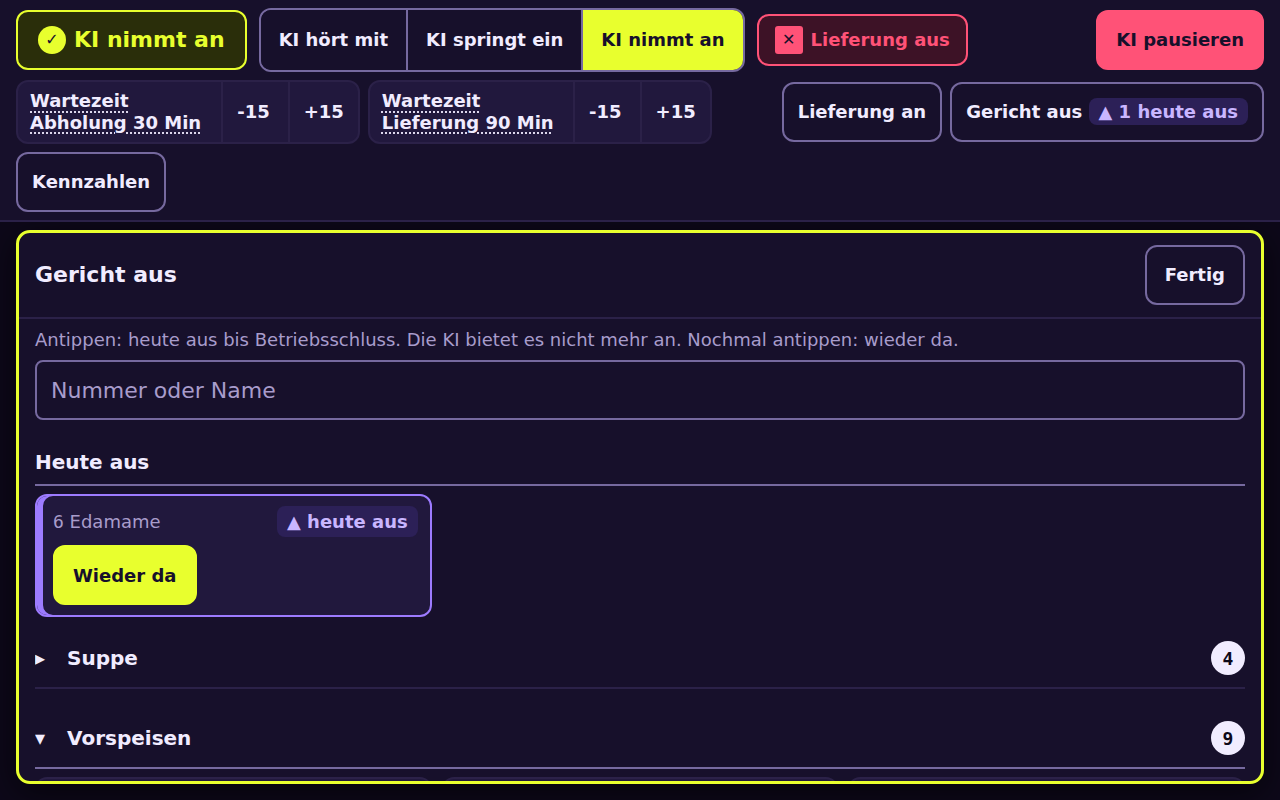
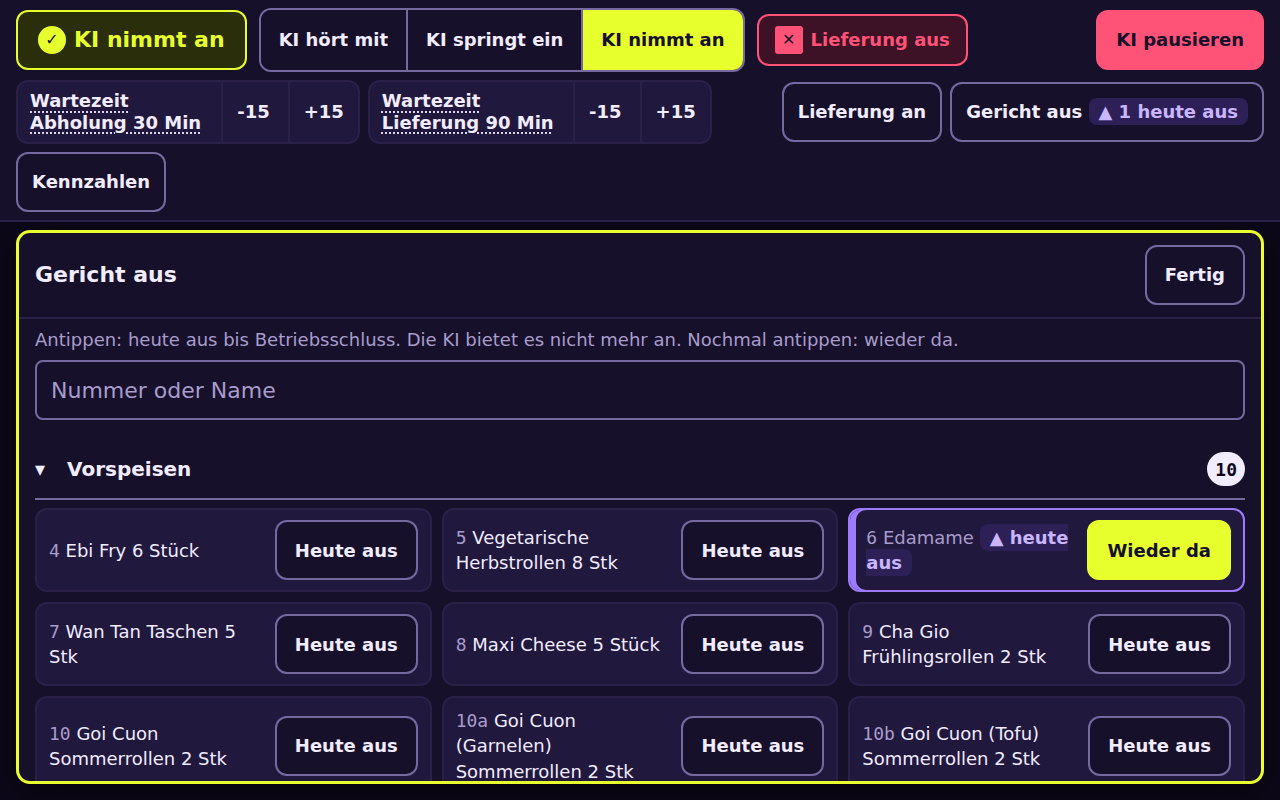
feat(gui): second review round: cancel line as an event, dish rows swap in place, dropped correction says so, refused number in coral

Changed region(s): [[0.0, 0.5625, 1.0, 0.9688]]

diff --git a/docs/06_GUI.md b/docs/06_GUI.md
@@ -74,7 +74,7 @@
 - Positionen zeigen die Kartennummer grau vor dem Namen. Die Küche arbeitet mit Nummern.
 - **Passt** → Zettel an die Kasse (in Stufe 5 ist das die Freigabe). Seit D2 druckt die Brücke einen Eingabezettel „NICHT IN KASSE“ am Haupt-Bondrucker; den Küchenbon druckt erst die Kasse, wenn jemand die Bestellung eingetippt hat (docs/02 §2a, T-4.6)
 - **Korrigieren** → Positionen ändern, Grund wählen (falsches Gericht · falsche Menge · falsche Adresse · Sonstiges). Jede Korrektur wird gezählt und ist der Rohstoff für die Genauigkeits-KPI.
-- **Bestellung stornieren** (Maxi relabelled it from „Storniert“, 03.11.2026: a button names the action, the state appears after it) → the guest cancelled by phone or never came. It asks first (§1 rule 6), the card leaves and a green line at the top of the column says „Bestellung A17: Storniert“ (the pickup code, else the name) until the next refresh, and no false „In Kasse eingegeben“ reaches the register (L18). Built 02.11.2026, below.
+- **Bestellung stornieren** (Maxi relabelled it from „Storniert“, 03.11.2026: a button names the action, the state appears after it) → the guest cancelled by phone or never came. It asks first (§1 rule 6), the card leaves and a green line above the columns says „Bestellung A17: Storniert“ (the pickup code, else the name) for 6 seconds, whatever the scroll position (the text travels in the `HX-Trigger` event `order-notice`: a line inside the column would be gone with the refresh that follows; the button is outlined in coral, 24 px clear of „Passt“), and no false „In Kasse eingegeben“ reaches the register (L18). Built 02.11.2026, below.
 - **Rote Karte = Übergabe fehlgeschlagen.** Eigener Zustand einer Bestellkarte (`handover_state = failed`), kein Fehlerbanner: Die Bestellung ist gebucht und bestätigt, nur der Bon fehlt. Roter Rahmen, Zeile „Zettel nicht gedruckt" (bis T-4.6: „Küche nicht erreicht"), ein Knopf „Nochmal senden". Bleibt oben in Spalte 1, bis die Übergabe gelingt. Rot wird sie, sobald die Küche den Bon nicht hat: Druckfehler oder 60 s ohne Abholung durch die Druckbrücke (T-4.6); druckt die Brücke den Bon doch noch, wird sie von selbst wieder normal.
 
 **Gebaut (T-4.7, 25.09.2026)** - `domain/ordering/board.py`, `correction.py`, `ticket.py`, `gui/orders_view.py`, `fragments/bestellungen.html`, `fragments/korrektur.html`:
@@ -114,13 +114,13 @@ A callback still open 90 days after its creation has lost number and summary to 
 ### Der Knopf „Gericht aus"
 Eigene Kachel, führt zu einer Liste mit Suchfeld und großen Schaltern. Ein Tap = ausverkauft bis Betriebsschluss. Der Agent bietet das Gericht ab sofort nicht mehr an und nennt eine Alternative.
 
-Gebaut (T-4.8): Knopf „Gericht aus" in der Kopfzeile, daneben die Zahl der Gerichte, die heute aus sind („2 heute aus"). Er öffnet ein Blatt über den Spalten wie die Korrektur; die Spalten bleiben live. Suchfeld für Nummer ("7" findet 07) oder Namensteil, darunter alle aktiven Gerichte, gruppiert nach `menu_items.category` mit einer Überschrift je Gruppe (T-3.8). Die Gruppen stehen in Kartenreihenfolge: eine Kategorie steht dort, wo ihr erstes Gericht in der Kartenreihenfolge steht, die Reihenfolge kommt aus den Daten und nicht aus dem Code (`group_switches` in `domain/menu/sold_out.py`). Eine Suche zeigt ihre Treffer ebenfalls gruppiert; Gruppen ohne Treffer fehlen. Jede Kategorie ist eine Falte (`<details>`) mit einer Zeile von 60 px: Name, Zahl der Gerichte und, wenn welche aus sind, „n heute aus“; alle Gruppen starten zu, das Blatt öffnet als kurze Liste von Kategorien. Ohne Suche steht die Gruppe „Heute aus“ zuerst, immer offen und ohne Falte: die Gerichte, die heute aus sind, verlassen dabei ihre Kategorie (`group_switches(..., sold_out_first=True)`). Eine Suche zeigt ihre Treffer offen und lässt die Gerichte in ihrer Kategorie. `app.js` merkt sich nur, welche Kategorien das Team aufgeklappt hat (nach Name, nicht im Browser gespeichert): ein Tap, ein `dishes`-Ereignis und eine gelöschte Suche behalten sie samt Scrollposition; das Schließen des Blatts setzt sie zurück. „Heute aus" stellt das Gericht bis zum Ende des Betriebstags (05:00 Ortszeit) auf ausverkauft, am nächsten Morgen ist es von selbst wieder da. Ein zweiter Tap („Wieder da") nimmt es zurück - für den Irrtum und die Nachlieferung. Keine Rückfrage (§1 Regel 6). Jeder Tap schreibt `audit_log` mit Wert davor und danach. Ein anderes Tablet sieht die Änderung über das Ereignis `dishes` im Strom. „Fertig" schließt das Blatt.
+Gebaut (T-4.8): Knopf „Gericht aus" in der Kopfzeile, daneben die Zahl der Gerichte, die heute aus sind („2 heute aus"). Er öffnet ein Blatt über den Spalten wie die Korrektur; die Spalten bleiben live. Suchfeld für Nummer ("7" findet 07) oder Namensteil, darunter alle aktiven Gerichte, gruppiert nach `menu_items.category` mit einer Überschrift je Gruppe (T-3.8). Die Gruppen stehen in Kartenreihenfolge: eine Kategorie steht dort, wo ihr erstes Gericht in der Kartenreihenfolge steht, die Reihenfolge kommt aus den Daten und nicht aus dem Code (`group_switches` in `domain/menu/sold_out.py`). Eine Suche zeigt ihre Treffer ebenfalls gruppiert; Gruppen ohne Treffer fehlen. Jede Kategorie ist eine Falte (`<details>`) mit einer Zeile von 60 px: Name, Zahl der Gerichte und, wenn welche aus sind, „n heute aus“; alle Gruppen starten zu, das Blatt öffnet als kurze Liste von Kategorien. Ohne Suche steht die Gruppe „Heute aus“ zuerst, immer offen und ohne Falte: die Gerichte, die heute aus sind, verlassen dabei ihre Kategorie (`group_switches(..., sold_out_first=True)`). Eine Suche zeigt ihre Treffer offen und lässt die Gerichte in ihrer Kategorie. `app.js` merkt sich nur, welche Kategorien das Team aufgeklappt hat (nach Name, nicht im Browser gespeichert): eine gelöschte Suche bringt sie zurück; das Schließen des Blatts setzt sie zurück. Eine Kategorie, die das Team gerade aufklappt, rollt mit ihrer Überschrift nach oben, damit ihre Gerichte zu sehen sind. „Heute aus" stellt das Gericht bis zum Ende des Betriebstags (05:00 Ortszeit) auf ausverkauft, am nächsten Morgen ist es von selbst wieder da. Ein zweiter Tap („Wieder da") nimmt es zurück - für den Irrtum und die Nachlieferung. Keine Rückfrage (§1 Regel 6). Jeder Tap schreibt `audit_log` mit Wert davor und danach. Ein Tap tauscht nur die eigene Zeile an ihrem Platz (`hx-target="closest li"`, die Antwort ist die eine Zeile im neuen Zustand): die Liste springt nicht unter dem Finger, kein nächstes Gericht rutscht nach. Das Ereignis `dishes` im Strom aktualisiert nur die Kachel in der Kopfzeile, nicht die offene Liste; jeder Knopf setzt einen Zustand, eine veraltete Zeile schadet also nicht und zeigt nach ihrem Tap die Wahrheit. Ein anderes Tablet sieht eine Änderung beim nächsten Öffnen des Blatts. „Heute aus“ wird beim Öffnen gefüllt, ein Gericht bleibt nach seinem Tap an seinem Platz. „Fertig" schließt das Blatt.
 
 ### Blätter (T-3.8)
 Die Panels „Korrigieren“ und „Gericht aus“ öffnen auf eine Art: als Blatt, das die Spalten überdeckt (`main` ist sein Rahmen), die Kopfzeile mit Stopp und allen Schaltern bleibt frei und tippbar. Die Spalten laufen darunter weiter (Ton, neue Karten), deshalb bleibt das Panel ein eigener Kasten (`#korrektur`, `#gericht-aus`) und kein Teil der Spalten; sie sind solange `inert`, der Fokus kommt also nicht darunter an.
 - Titel und Schließen-Knopf („Fertig“, „Abbrechen“) bleiben stehen, nur der Inhalt (`.sheet-body`) scrollt. Bei „Gericht aus“ stehen außerdem der Hinweis und das Suchfeld fest, bei „Korrigieren“ Summe und die Grund-Knöpfe (Speichern) am unteren Rand - immer erreichbar, auch bei langer Bestellung. Ein Tap im Blatt zeichnet es neu, die Scrollposition bleibt.
-- Unten bei „Korrigieren“ steht genau eine Zeile mit dem echten Grund, warum Speichern gesperrt ist (der erste Fehler; „Noch nichts geändert.“ ist nur ein Zustand und steht in Violett, ein Fehler wie eine fehlende Pflichtauswahl in Koralle), und die Meldung des Servers („Nummer 999 gibt es nicht auf der Karte.“), neben den Knöpfen und nicht oben außer Sicht.
-- Kommt eine neue Bestellung oder eine neue Beschwerde, während ein Blatt die Spalten verdeckt, steht über dem Blatt ein neongelber Streifen „Neue Bestellung · ansehen“ bzw. „Neue Beschwerde · ansehen“ (60 px); ein Tap schließt das Blatt und rollt die Karte ins Bild. Er gilt für jedes Blatt in `sheets` in `app.js`.
+- Unten bei „Korrigieren“ steht genau eine Zeile mit dem echten Grund, warum Speichern gesperrt ist (der erste Fehler; „Noch nichts geändert.“ ist nur ein Zustand und steht in Violett, ein Fehler wie eine fehlende Pflichtauswahl in Koralle), Die Meldung des Servers („Nummer 999 gibt es nicht auf der Karte.“) steht in Koralle direkt unter dem Nummernfeld, das Blatt rollt sie über den festen Fuß ins Bild; kein violetter Kasten für einen Fehler.
+- Kommt eine neue Bestellung oder eine neue Beschwerde, während ein Blatt die Spalten verdeckt, steht über dem Blatt ein neongelber Streifen „Neue Bestellung · ansehen“ bzw. „Neue Beschwerde · ansehen“ (60 px); ein Tap schließt das Blatt und rollt die Karte ins Bild. Schließt er eine Korrektur mit Änderungen, steht dieselbe Zeile wie beim Zeitgeber: „Korrektur abgebrochen, nichts gespeichert.“ Er gilt für jedes Blatt in `sheets` in `app.js`.
 - Schließt die Korrektur nach 90 Sekunden ohne Tap von selbst, steht auf der Tafel „Korrektur abgebrochen, nichts gespeichert.“ bis zum nächsten Tap. Tippen im Nummernfeld setzt den Zeitgeber zurück.
 - Öffnen setzt den Fokus auf den Titel; Schließen (Knopf, Escape, Speichern, 90 Sekunden ohne Tap bei der Korrektur) gibt ihn an den Knopf zurück, der das Blatt geöffnet hat. Öffnet das Team das andere Panel, schließt das erste.
 
@@ -169,7 +169,7 @@ Die Panels „Korrigieren“ und „Gericht aus“ öffnen auf eine Art: als Bla
 
 ## 7. Mockup-Abnahme
 
-- **02.11.2026 – Panels as sheets, „Gericht aus“ grouped (T-3.8, Maxi):** both panels were a box above the columns and pushed the board down; „Gericht aus“ was one flat list. Now both open as one kind of sheet over the columns (§3 „Blätter“) and the dishes stand under a heading per category in menu order. The columns keep a height of their own (the 360 px minimum for an open panel is gone). Review round (03.11.2026): the foot of the correction names the real reason and carries the message; a strip tells of a new order or complaint under a sheet; a correction closed by the idle timer says nothing was saved; „Heute aus“ is a neutral button (coral stays for what went wrong) and the note of an order (an allergy) is a solid violet fill with dark text; dishes that are out form a first group; every category folds. Screenshots: `docs/design/2026-11-panels/`. Checked in the browser at 1280 x 800 and 1180 x 800 on both open sheets, at rest and scrolled (also a correction with eight lines): all visible text 18 px or more, text contrast 4.5:1 or more, every control 60 px, title and close button in view, the save buttons in view at the top and the bottom of the scroll, the stop button of the command bar tappable under an open sheet, focus on the title after opening and back on the opener after closing, Escape closes. Not checked: a real tablet, the on-screen keyboard over the search field, a screen reader, widths under 900 px.
+- **02.11.2026 – Panels as sheets, „Gericht aus“ grouped (T-3.8, Maxi):** both panels were a box above the columns and pushed the board down; „Gericht aus“ was one flat list. Now both open as one kind of sheet over the columns (§3 „Blätter“) and the dishes stand under a heading per category in menu order. The columns keep a height of their own (the 360 px minimum for an open panel is gone). Review round (03.11.2026): the foot of the correction names the real reason and carries the message; a strip tells of a new order or complaint under a sheet; a correction closed by the idle timer says nothing was saved; „Heute aus“ is a neutral button (coral stays for what went wrong) and the note of an order (an allergy) is a solid violet fill with dark text; dishes that are out form a first group; every category folds. Second round: the cancel line shows for 6 seconds above the columns (an event, not part of the refreshed column), a dish tap swaps only its own row, the list is not redrawn by the `dishes` event, an opened category scrolls to the top, a correction dropped by the strip says nothing was saved, a refused number is a coral sentence at the number field. Screenshots: `docs/design/2026-11-panels/`. Checked in the browser at 1280 x 800 and 1180 x 800 on both open sheets, at rest and scrolled (also a correction with eight lines): all visible text 18 px or more, text contrast 4.5:1 or more, every control 60 px, title and close button in view, the save buttons in view at the top and the bottom of the scroll, the stop button of the command bar tappable under an open sheet, focus on the title after opening and back on the opener after closing, Escape closes. Not checked: a real tablet, the on-screen keyboard over the search field, a screen reader, widths under 900 px.
 - **02.11.2026 – The colours of the README (D27, Maxi):** the view wears the brand palette of docs/15 and keeps its meaning: neon `#E8FF2E` is done and the main action, violet `#9D7BFF` is open or waiting, coral `#FF5277` is only what went wrong, on midnight `#0D0819`. Times, codes, counts and sums are in the system monospace face of the README, the text stays sans. The light theme of D26 is gone: one theme, whatever the tablet is set to. The look of `gui/mockups/betrieb-tablet.html` holds for layout, its colours are superseded; screenshots: `docs/design/2026-11-brand/`. Checked in the browser on the board, the open holiday strip, „Gericht aus“, „Korrigieren“, the key figures and the console: all visible text 18 px or more, text contrast 4.5:1 or more against its real background, every control 60 px. That check found that the columns of D26 did not scroll on their own: the whole board scrolled under the bar, against the entry below. Fixed here. Not checked: glare in a bright kitchen on a real tablet; if the dark theme fails there, a light one comes back as a token block.
 - **02.11.2026 – Betriebsansicht, Redesign (D26, replaces the mockup of 16.09.2026 for the look; screens, functions and texts stay):** Maxi approved the direction after a critique and an accessibility review of the screens at 1280 x 800. Mockup: `gui/mockups/betrieb-tablet.html`; before and after screenshots: `docs/design/2026-11-redesign/`. What changed:
   - **Fixed command bar, columns scroll on their own.** The header went from three stacked rows (319 px of 800) to two (about 155 px): row 1 the status pill, the mode switch as one segmented control, the delivery state and the emergency stop at the far right; row 2 the two Wartezeit steppers, „Lieferung aus/an“, „Gericht aus“, „Kennzahlen“. Each column scrolls by itself (only since D27, above), so a new order never pushes the stop button out of view. Below 1180 px width the bar wraps to more rows (still every target 60 px); the design target is 1180 to 1280 px landscape. While „Korrigieren“ or „Gericht aus“ is open the page scrolls and the columns keep at least 360 px.

diff --git a/docs/01_STATUS.md b/docs/01_STATUS.md
@@ -565,7 +565,7 @@ Details and full list: `docs/07_WORKPACKAGES.md`. Mirrored on GitHub as issues: 
 
 | Date | What |
 |---|---|
-| 02.11.2026 | **T-3.8 done (#493): panels as sheets, "Gericht aus" grouped by category.** "Korrigieren" and "Gericht aus" open as one kind of sheet over the columns (`main` is the frame): title and close button stay in view, the content scrolls, the search field (Gericht aus) and the sum plus save buttons (Korrigieren) stay put; the columns stay live underneath and are `inert` while a sheet is open; the command bar stays tappable. Focus goes to the title on open and back to the opener on close, Escape closes, the scroll position survives a tap. `group_switches` in `domain/menu/sold_out.py` groups the (filtered) list by `menu_items.category`, groups in the order of their first dish in card order, nothing hard-coded; the template only renders. Tests: grouping, order from data, search stays grouped (domain and GUI). Review round: foot of the correction with the real blocker and the message, strip for a new order or complaint under a sheet, banner when the idle timer closes a correction, neutral "Heute aus" button, solid allergy note, group "Heute aus" first, folding categories. Browser check at 1280 and 1180 px: docs/06 §7, screenshots `docs/design/2026-11-panels/`. Not checked: real tablet, on-screen keyboard, widths under 900 px. |
+| 02.11.2026 | **T-3.8 done (#493): panels as sheets, "Gericht aus" grouped by category.** "Korrigieren" and "Gericht aus" open as one kind of sheet over the columns (`main` is the frame): title and close button stay in view, the content scrolls, the search field (Gericht aus) and the sum plus save buttons (Korrigieren) stay put; the columns stay live underneath and are `inert` while a sheet is open; the command bar stays tappable. Focus goes to the title on open and back to the opener on close, Escape closes, the scroll position survives a tap. `group_switches` in `domain/menu/sold_out.py` groups the (filtered) list by `menu_items.category`, groups in the order of their first dish in card order, nothing hard-coded; the template only renders. Tests: grouping, order from data, search stays grouped (domain and GUI). Second review round: cancel line as an event for 6 seconds, a dish tap swaps its own row, no list redraw on the `dishes` event, opened category scrolls to the top, dropped correction says so, refused number in coral at the field. Review round: foot of the correction with the real blocker and the message, strip for a new order or complaint under a sheet, banner when the idle timer closes a correction, neutral "Heute aus" button, solid allergy note, group "Heute aus" first, folding categories. Browser check at 1280 and 1180 px: docs/06 §7, screenshots `docs/design/2026-11-panels/`. Not checked: real tablet, on-screen keyboard, widths under 900 px. |
 | 02.11.2026 | **The correction lookup of "Kennzahlen" is bounded in time (security audit 02.11.2026, #252 P3 no. 14).** The `order.corrected` lookup in `api/domain/calls/figures.py` read the tenant's whole `audit_log` (365 days kept, only index `(tenant_id, at)`) for each of the 15 spans of a page load. It now takes only entries about an order (`entity = "order"`) dated from the order's creation on, with the board's `CLOCK_MARGIN` (`domain/ordering/board.py`), and the same bound against the span start as a constant, which alone lets Postgres use the `(tenant_id, at)` index. No migration, no new index. Measured on a throwaway database with a year of two tenants (109,500 orders, 448,950 audit rows): one day's lookup 20 ms with a parallel scan of 7,258 buffers before, 0.4 to 2 ms over 43 to 232 buffers after; the 15 spans of a page 265 ms before, 59 ms after, same counts. A parametrised test pins which entry marks an order corrected (after the order, inside the clock margin, not before it, not another tenant's, not another entity's); two of its cases were red before the fix |
 | 02.11.2026 | **Print bridge re-audit fixes (security re-audit of 02.11.2026 evening, #252, P3 nos. 4 to 8).** The claim answer is built by `_slip` in `domain/ordering/handover.py`: no `unit_price_cents` of a position on any slip, and a cancellation note carries no address, no order note and no position notes, which `escpos.py` never prints on it; the test of #484 now covers the cancellation too and still wants the slip byte for byte. `install.ps1 -Uninstall` clears the settings before it touches the folder and ends with exit code 1 when a token stays for all users; the stop phase of an update runs inside the try, so its failure also starts the old bridge again, and `Wait-Process` gives up after 30 s. The `printbridge` workflow uploads a package only on `main`, a manual run on another branch included. The Windows install check now shows a removal that cannot delete the folder: it fails and leaves no token. Not shown there: the exit code of a removal without admin rights and a failing stop phase (the runner is an administrator and its processes end) |
 | 02.11.2026 | **Security re-audit fix: the owner's contact no longer keeps a planted row alive (re-audit of 02.11.2026, evening, P3, #252).** `note_contact` moved `last_contact_at` on every row on the number, so a callback or complaint of the number's real owner also moved a draft-only row a booking from another line wrote under it (no order counted, `last_contact_at` equal to `created_at`); that row lost its 90-day deletion and kept a stranger's name and address for 24 months. Now a contact moves only rows with an order counted or a block, the rows `find_customer` recognizes. Red tests first (8): the planted row keeps its 90 days after the owner's pickup, table, callback and complaint while the owner's record moves; an own-line draft's row keeps them too (the three tests of Codex PR #472 that pinned the old behaviour are replaced); a blocked row without orders still moves. `jobs/retention.py` comment, docs/03, docs/04 and the assumptions (e), (g) of "Recognition only on the own line" and T-6.5 (g) synced |
